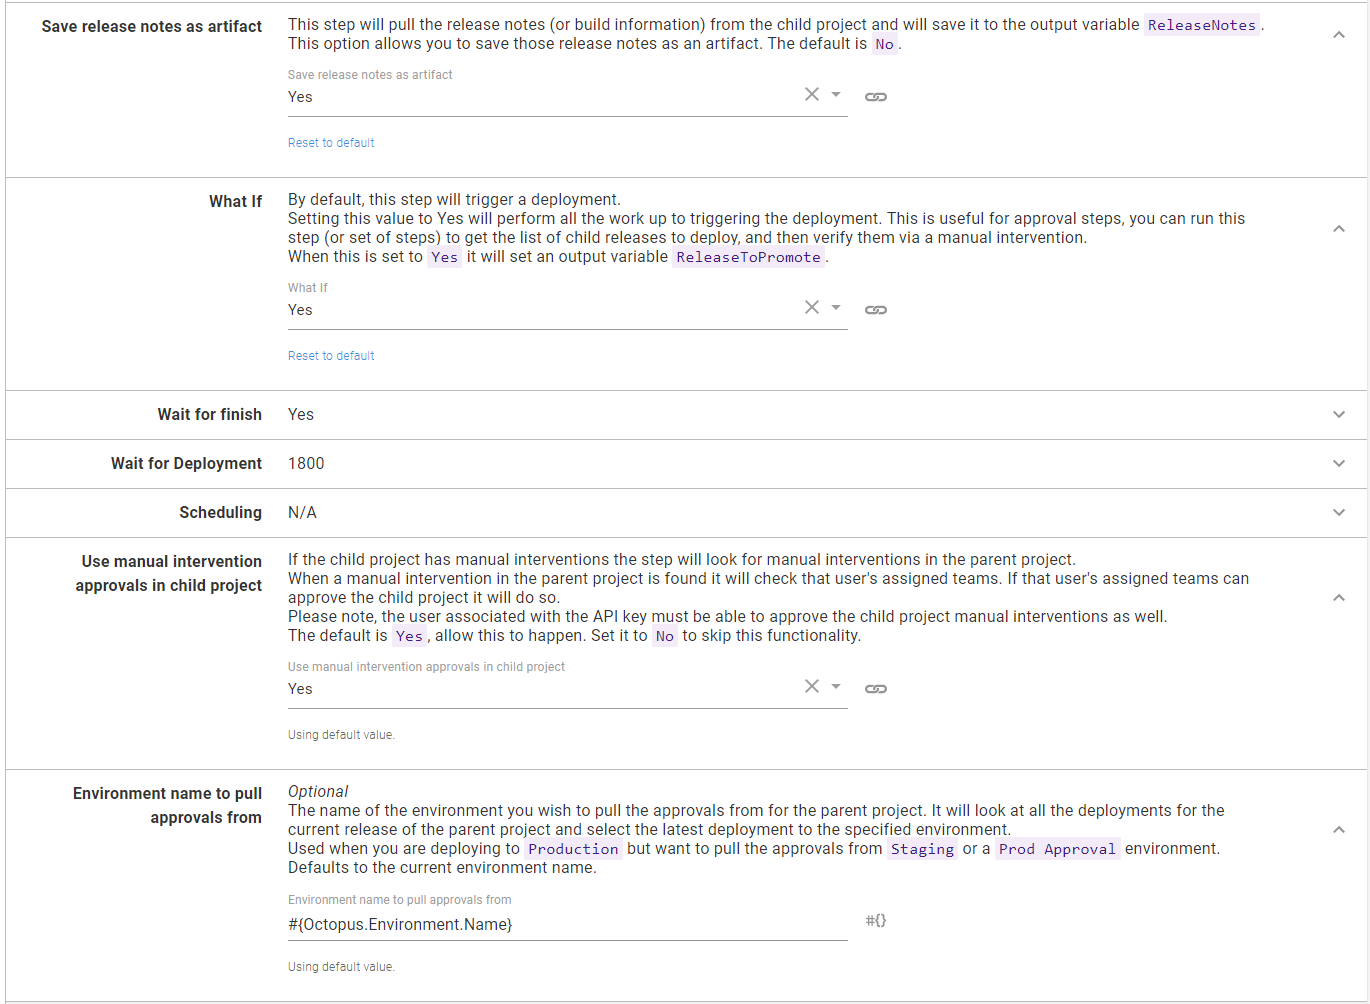
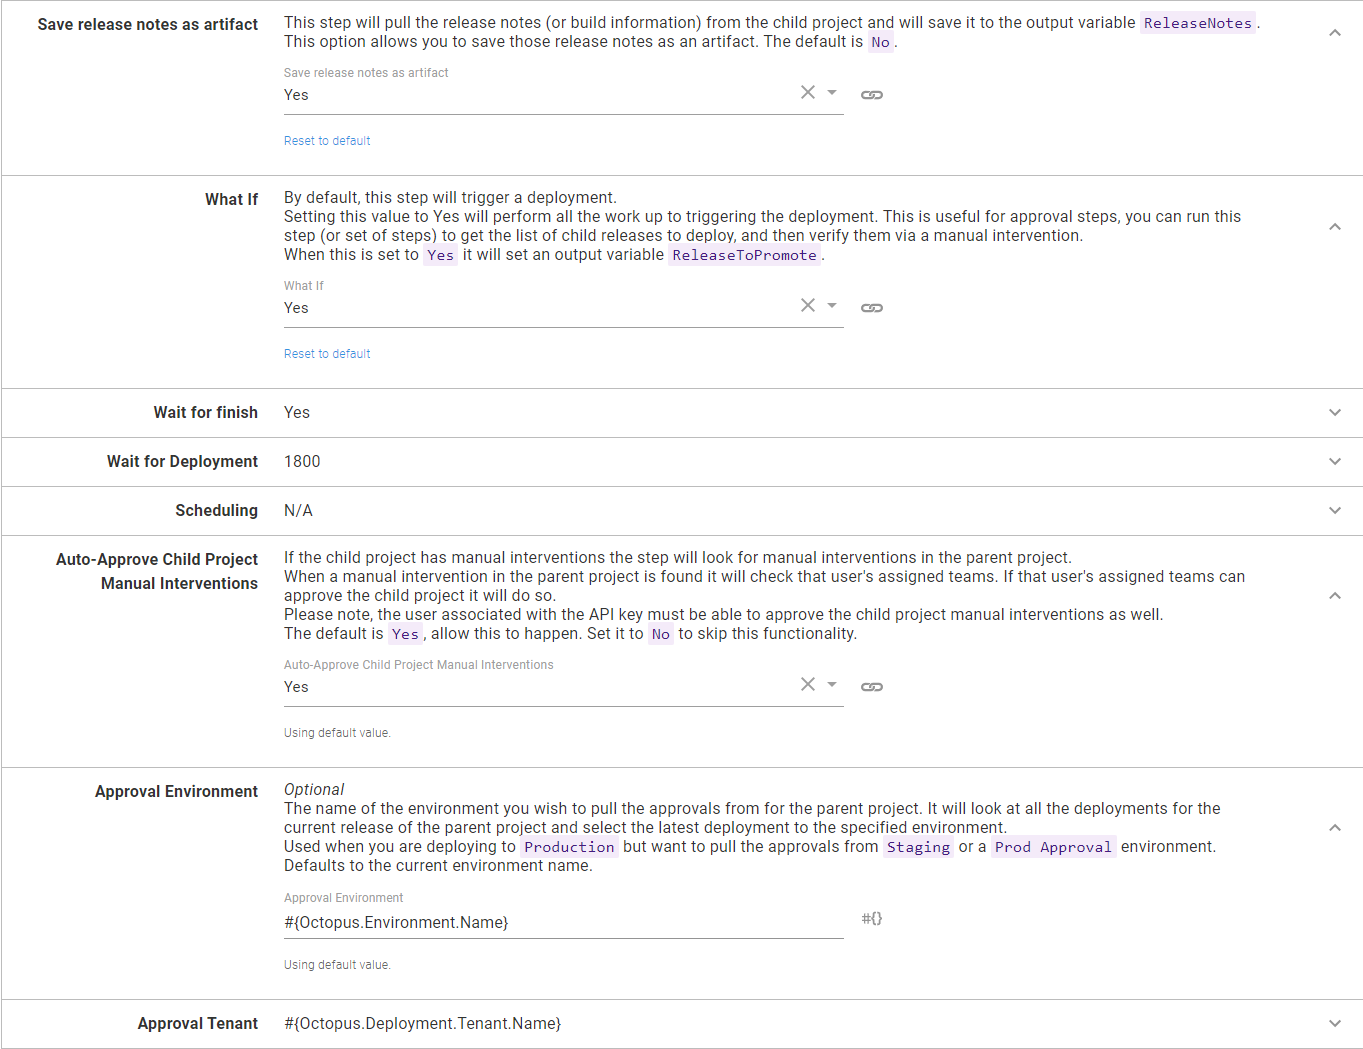
Updating screenshots to reflect updated step template, line edits, and a new scenario

diff --git a/blog/2021-01/real-world-release-management/index.md b/blog/2021-01/real-world-release-management/index.md
@@ -59,7 +59,7 @@ Promoting all the component projects to **Production** is when this pattern star
 - Typically, applications need to be deployed in a specific order.  Deploy the database first, followed by the API, then the scheduling service, and finally the UI.  Any issues during the deployment should stop everything.
 - How and when changes are approved vary from company to company.  It is not uncommon for a release's approval to occur on Tuesday for a Thursday night deployment.
 
-To solve these issues, we need a "parent project" to coordinate all these "child projects." Unlike the child projects, the parent project only needs to deploy to **Staging** and **Proudction**.
+To solve these issues, we need a "parent project" to coordinate all these "child projects." Unlike the child projects, the parent project only needs to deploy to **Staging** and **Production**.
 
 ## Introducing the Deploy Child Octopus Deploy Project Step Template
 
@@ -89,15 +89,15 @@ With those three points of data, the step template will:
 - Look for all the releases matching the supplied pattern for that channel.  
 - Find the release that was last successfully deployed to the previous environments.  Not the most recently created release deployed to the previous environment.  The last successfully deployed release.  For example, you deploy `2021.1.0.15` to **Test**, then realize that release shouldn't have been pushed, and redeploy `2021.1.0.14` to **Test**.  The step template will pick `2021.1.0.14` when it promotes to **Staging** because that was the last release deployed to **Test**.
 
-If no release is found, it will exit the step and move onto the next step in the deployment process.  For example, shortly after promoting `2021.1.0` to **Proudction**, a bug is reported requiring a fix to the Web API and Web UI projects. You'd create the `2021.1.1` release with the `2021.1.1.*` pattern for the child projects.  The Database and Scheduling service projects don't have a matching release because they weren't updated, so they are skipped.  
+If no release is found, it will exit the step and move onto the next step in the deployment process.  For example, shortly after promoting `2021.1.0` to **Production**, a bug is reported requiring a fix to the Web API and Web UI projects. You'd create the `2021.1.1` release with the `2021.1.1.*` pattern for the child projects.  The Database and Scheduling service projects don't have a matching release because they weren't updated, so they are skipped.  
+
+![How step template picks releases](release-management-how-releases-are-picked.png)
 
 :::success
 One of the basic design rules of this step template is customization.  For example, you can configure the step to throw an error if no release is found rather than exiting out of the step and proceeding.
 :::
 
 The step template will also check to see if the selected release has been deployed to the destination environment and skip it if it already has.  You can configure it always to redeploy.
-
-![How step template picks releases](release-management-how-releases-are-picked.png)
 
 ### Easier Approvals
 
@@ -141,7 +141,7 @@ The step template supports that use case by allowing you to send in a future tim
 - `MM/DD/YYYY HH:mm:ss` or `06/25/2021 19:00:00` will deploy at 7 PM on the 25th of June, 2021
 - `DD MMM YYYY HH:mm:ss` or '01 Jan 2021 18:00:00` will deploy at 6 PM on the 1st of January, 2021
 
-You can leverage [prompted variables](https://octopus.com/docs/projects/variables/prompted-variables) to let a user send in a date/time when deploying to **Proudction**.
+You can leverage [prompted variables](https://octopus.com/docs/projects/variables/prompted-variables) to let a user send in a date/time when deploying to **Production**.
 
 ![schedule the release](release-mangement-deploy-scheduled-release.png)
 
@@ -157,18 +157,19 @@ When designing this step template, one of the design decisions was to make it ea
 - **Child Project Channel**: The name of a specific channel.  If you leave it blank, it will pick the default channel on the child project.  
 - **Child Project Release Number**: the release number to deploy.  The default is empty; it will pull the latest release in the source environment.  Can supply a specific number, `2021.1.0.14`, or a pattern, `2021.1.1.*`.  The `.*` is important.  If the period `.` isn't supplied, you could end up with releases from `2021.1.10.x` or `2021.1.15.x`.  
 - **Child Project Release Not Found Error Handle**: what the step should do if the child project doesn't have a matching release number.  By default, it will skip the step and log a warning.  You can change that to stop a deployment with an error or not log a warning.  Recommend leaving it as a warning.
-- **Destination Environment Name**: the name of the environment being deployed to, with the default set to the current environment name.  Recommend leaving as-is unless you are implementing an "Approval Only" environment between **Staging** and **Proudction** (more on that later).
+- **Destination Environment Name**: the name of the environment being deployed to, with the default set to the current environment name.  Recommend leaving as-is unless you are implementing an "Approval Only" environment between **Staging** and **Production** (more on that later).
 - **Source Environment Name**: the name of the source environment.  When left blank, the step template will look at the channel's lifecycle, determine what phase the destination environment is in, then look for the environment(s) before that.  The kicker is Octopus Deploy [lifecycles](https://octopus.com/docs/releases/lifecycles) can have 1 to N environments in a phase.  Enter a specific environment if the release has to come from a specific source environment.  Recommend you leave blank.
 - **Child Project Prompted Variables**:  where you supply prompted variables values for the child project.  
-- **Force Redeployment**: tells the step template to either redeploy a release or skip it if it has already been deployed.  In the event you have a deployment target trigger configured for the release orchestration project, you'd want to change the value to `When deploying to specific machines`.  Otherwise leave it as is.
+- **Force Redeployment**: tells the step template to either redeploy a release or skip it if it has already been deployed.  In the event you have a deployment target trigger configured for the parent project, you'd want to change the value to `When deploying to specific machines`.  Otherwise leave it as is.
 - **Ignore Specific Machine Mismatch**: this only comes into account if you deploy to specific machine(s), which happens with a deployment target trigger.  This step will determine if the child project is associated with any of those machines and exit when it cannot find a match.  Recommend leaving as-is unless there is a particular reason.
 - **Save Release Notes as Artifacts**: the step template will pull all the release notes and build information from the child project and save it in an output variable `ReleaseNotes`.  Output variables are not easily accessible after a deployment.  If you want to persist the gathered release notes in the parent project, then set this to `Yes`.
 - **What If**: tells the step template to do everything except the deployment.  Set to `Yes` if you'd like to approve a release before actually deploying.
 - **Wait for finish**: wait for the deployment to finish before moving on.  Setting the what if parameter set to `Yes` will cause this parameter to be ignored.
 - **Wait for Deployment**: how long the step template waits for the deployment to finish.  Once the timeout is exceeded, the child project's deployment is canceled.  This parameter is the MAX time it will wait.  If a deployment finishes before the limit, it will stop waiting.  Leave at 1800 seconds (30 minutes) unless there is a compelling reason.
 - **Scheduling**: Allows you to schedule a deployment in the future.  Uses [DateTime.TryParse](https://docs.microsoft.com/en-us/dotnet/api/system.datetime.tryparse) to parse the date.  Recommend using this with a prompted variable.
-- **Use Manual Intervention Approvals in Child Project**: will use the parent project's approvals in the child project. 
-- **Environment name to pull approvals from**: the environment's name to pull the parent project's approvals.  The default is the current environment.  Change if you are implementing a "Prod Approval" environment.
+- **Auto-Approve Child Project Manual Interventions**: will use the parent project's manual intervention approvals for the child project's manual intervention. 
+- **Approval Environment**: the environment's name where the parent project's manual interventions are located.  The default is the current environment.  Change if you are implementing a "Prod Approval" environment.
+- **Approval Tenant**: the name of the tenant where the parent project's manual interventions are located.  The default is the current tenant.  Change if you are implementing a "Prod Approval" environment for a single tenant.
 
 ## Using the Deploy Child Octopus Deploy Project Step Template
 
@@ -200,7 +201,7 @@ If you want to leverage the auto-approval functionality, go to each manual inter
 
 #### Create a unique lifecycle
 
-The release orchestration project only needs to deploy to **Staging** and **Proudction**.  We don't want to use the default lifecycle that has all four environments in it.  Create a new lifecycle that only has **Staging** and **Proudction** in it.
+The parent project only needs to deploy to **Staging** and **Production**.  We don't want to use the default lifecycle that has all four environments in it.  Create a new lifecycle that only has **Staging** and **Production** in it.
 
 :::success
 The parent project and child project's lifecycles and channels _do not_ have to match.  The step template will determine if the selected release from the child project can be promoted to the destination environment
@@ -216,7 +217,7 @@ Next up is to create the project.  When you are creating the project, remember t
 
 Once the project is created, head over to the variables screen and add in the API key and the release pattern.
 
-![release orchestration variables](release-orchestration-variables.png)
+![parent project variables](release-orchestration-variables.png)
 
 ### Scenario: Deploying the latest release from Test to Staging
 
@@ -226,12 +227,12 @@ In this scenario, we are going back to the sample application.  If you recall, r
 
 Go to the deployment process in the newly created **Release Orchestration** project and add a `Deploy Child Octopus Deploy Project` step for each child project.
 
-![release orchestration deploy child octopus deploy project steps added](release-management-deploy-release-steps-added.png)
+![parent project deploy child octopus deploy project steps added](release-management-deploy-release-steps-added.png)
 
 Here are the values for each parameter.
 
 - **Octopus API Key**: the API key variable, `#{Project.ChildProjects.ReleaseAPIKey}`.
-- **Octopus Child Space**: leave the default value as-is; this example isn't creating a release orchestration project in another space.
+- **Octopus Child Space**: leave the default value as-is; this example isn't creating a parent project in another space from the child projects.
 - **Child Project Name**: the name of the child project.
 - **Child Project Channel**: leave the default (empty) value as-is; the child project only has one channel.
 - **Child Project Release Number**: The release pattern variable, `#{Project.ChildProjects.ReleasePattern}`
@@ -246,8 +247,9 @@ Here are the values for each parameter.
 - **Wait for finish**: leave the default value as-is; this example will wait for the deployment to finish.
 - **Wait for Deployment**: leave the default value as-is; 30 minutes should be more than enough.
 - **Scheduling**: leave the default value as-is, this example requires a specific order for child projects.
-- **Use Manual Intervention Approvals in Child Project**: leave the default value as-is; this setting is moot right now as the example hasn't added child projects.
-- **Environment name to pull approvals from**: leave the default value as-is; this setting is moot right now as the example hasn't added child projects.
+- **Auto-Approve Child Project Manual Interventions**: leave the default value as-is; this setting is moot right now as we aren't concerned with approvals at the moment.
+- **Approval Environment**: leave the default value as-is; this setting is moot right now as we aren't concerned with approvals at the moment.
+- **Approval Tenant**: leave the default value as-is; this setting is moot right now as we aren't concerned with multi-tenant deployments for this article.
 
 After adding and configuring the steps, it is time to create a release.  I will be making many changes to the parent project in this article; you might see `2021.1.0-RCx` for the release numbers.  
 
@@ -312,11 +314,11 @@ Please create a new release and deploy it to **Staging**.
 
 ![release management second release](release-mangement-second-release.png)
 
-When you deploy to **Staging** you will see this message a lot.  That is expected, especially for this sample project.  The redeployment parameter is set to `No`, and we haven't created any new releases.
+When you deploy to **Staging** you will see this message.  That is expected, especially for this sample project.  The redeployment parameter is set to `No`, and we haven't created any new releases.
 
 ![release management second deployment](release-management-skip-already-installed-release.png)
 
-Promote that release to **Proudction**.  During this deployment, you'll see the manual interventions and auto-approvals in action.  First up, the manual intervention should have the version being deployed along with the release notes.
+Promote that release to **Production**.  During this deployment, you'll see the manual interventions and auto-approvals in action.  First up, the manual intervention should have the version being deployed along with the release notes.
 
 ![manual intervention with rendered release notes](manual-intervention-rendered-release-notes.png)
 
@@ -328,21 +330,21 @@ But once that is fixed, you should see a message similar to this in the child pr
 
 ![manual intervention auto-approval message](release-management-auto-approval-message.png)
 
-And with that, the release to **Proudction** is complete!
+And with that, the release to **Production** is complete!
 
 ![release management deploy to Production](release-orchestration-release-to-production.png)
 
 ### Scenario: Approve today deploy tomorrow
 
-For a large chunk of our users, deployments are done off-hours.  It seems odd to require approvers to be online during deployment if they have nothing to do.  In a perfect world, the deployment should run automatically without user intervention and page the appropriate people if something goes wrong.  We can accomplish that functionality by adding in a **Prod Approval** environment to sit between **Staging** and **Proudction**.  This environment will _only_ be used for release orchestration projects.
+For a large chunk of our users, deployments are done off-hours.  It seems odd to require approvers to be online during deployment if their only task is to approve a deploy.  In a perfect world, the deployment should run automatically off-hours without user intervention and page the appropriate people if something goes wrong.  We can accomplish that functionality by adding in a **Prod Approval** environment to sit between **Staging** and **Production**.  This environment will _only_ be used for parent projects.
 
-Add the **Prod Approval** environment.  You will notice this environment sits between **Staging** and **Proudction** on this page.  I clicked the `...` to reorder the environments on this page.
+First, add the **Prod Approval** environment.  You will notice this environment sits between **Staging** and **Production** on this page.  I clicked the `...` to reorder the environments on this page.
 
 ![add prod approval](release-management-add-prod-approval.png)
 
-Now that the new environment has been added, update the lifecycle used by this release orchestration project.
+Now that the new environment has been added, update the lifecycle used by this parent project.
 
-![prod approval in the release orchestration lifecycle](release-management-updated-lifecycles.png)
+![prod approval in the parent project lifecycle](release-management-updated-lifecycles.png)
 
 :::success
 Keep an eye on the **Default Lifecycle.**  By default, that lifecycle doesn't have explicit phases defined.  Instead, it auto-generates the phases using the entire environment list.  To remove **Prod Approval** from the **Default Lifecycle**, you will need to add explicit phases.
@@ -350,19 +352,19 @@ Keep an eye on the **Default Lifecycle.**  By default, that lifecycle doesn't ha
 
 Next, update the approval steps to only run in the **Prod Approval** environment.  At the same time, configure the non-what-if steps to skip the **Prod Approval** environment.
 
-![prod approval added to the release orchestration project](release-management-deployment-process-with-prod-approval.png)
+![prod approval added to the parent project project](release-management-deployment-process-with-prod-approval.png)
 
 Next, head over to the variables screen and add in two new variables:
 
 - **Project.ChildProject.Approval.Environment.Name**: stores the **Prod Approval** environment name.
-- **Project.ChildProject.Deployment.Environment.Name**: stores the name of the environment the child project should be deployed to.  For all environments except **Prod Approval**, the name will match the current environment.  When running this on the **Prod Approval** environment, the deployment environment name is **Proudction**.
+- **Project.ChildProject.Deployment.Environment.Name**: stores the name of the environment the child project should be deployed to.  For all environments except **Prod Approval**, the name will match the current environment.  When running this on the **Prod Approval** environment, the deployment environment name is **Production**.
 
 ![prod approval new variables](release-management-new-variables.png)
 
 Go into each step implementing the `Deploy Child Octopus Deploy Project` and update the following parameters:
 
 - **Destination Environment Name**: update to `#{Project.ChildProject.Deployment.Environment.Name}`
-- **Environment name to pull approvals from**: update to `#{Project.ChildProject.Approval.Environment.Name}`.
+- **Approval Environment**: update to `#{Project.ChildProject.Approval.Environment.Name}`.
 
 ![using the new variables in the new steps](release-mangement-using-the-new-variables.png)
 
@@ -378,7 +380,7 @@ Let's assume everything successfully passes QA, and it is time to promote those 
 
 ![update release pattern](release-management-update-release-pattern.png)
 
-Please create a new release for the release orchestration project and deploy it to **Staging**.  
+Please create a new release for the **Release Orchestration** project and deploy it to **Staging**.  
 
 ![dashboard after deployment to Staging](release-management-prod-approval-post-staging.png)
 
@@ -386,13 +388,45 @@ Promote that release to **Prod Approval** and go through each of the approval st
 
 ![releases already deployed messages](approval-message-with-release-already-in-environment.png)
 
-Now it is time to schedule the release to deploy to **Proudction**.  Using the built-in tool, we can schedule it to run at 7 PM tonight.
+Now it is time to schedule the release to deploy to **Production**.  Using the built-in tool, we can schedule it to run at 7 PM tonight.
 
 ![schedule release to deploy to Production](schedule-release-to-production.png)
 
 When the release is deployed, it will pull the approvals from the **Prod Approval** environment.
 
 ![the approval came from an earlier environment](release-management-approval-from-prod-approval.png)
+
+### Scenario: Redeploy on demand
+
+By default, the step template will skip any release already deployed to the target environment.  For a significant number of use cases that is the preferred behavior.  However, there are several use cases where a redeployment is desired.
+
+- Environment refresh: the **Staging** environment is refreshed from **Production**.  It makes sense to redeploy the latest code to **Staging** to get the latest bits out there for testing.
+- Server reset: one of the servers is acting funny, perhaps the easiest solution is to redeploy to make sure all the code and configuration values are up to date.
+- New server: a new server is added to the web farm, redeploy everything to make sure the web farm has the same code and configuration across all nodes.
+
+To accomplish this we will use [Octopus Deploy's prompted variable functionality](https://octopus.com/docs/projects/variables/prompted-variables).  First, we will add a new variable to the project.
+
+- Name: **Project.ChildProject.ForceRedeployment**
+- Default Value: No
+- Label: Force Redeployment
+- Control Type: Drop Down List
+- Options: Yes and No
+
+![variable to allow for forcing redeployment](force-redeployment-prompted-variables.png)
+
+Next, update the **Force Redeployment** parameter to use this new variable.  
+
+![updating the step to force redeployment](force-redeployment-update-step.png)
+
+Now when you do a deployment you will be prompted to force a redeployment.  The default is `No`, if a user leaves everything as is the default functionality will be used.
+
+![seeing the force redeployment prompted variable](force-redeployment-when-deploying-release.png)
+
+And when it is set to `Yes` you will see all the child projects redeploy.
+
+![seeing the redeploy in action](release-management-redeploy-inaction.png)
+
+At the moment the prompted variable makes redeployment an all or nothing.  It might make sense to have a unique variable per component project, or group them together in a logical fashion.  
 
 ## Alternatives
 If you made it this far, you might be thinking, wow, this is all very complex.  Is this needed?  I think it is. Let's reexamine why a person wants to have a project per component.
@@ -402,7 +436,7 @@ If you made it this far, you might be thinking, wow, this is all very complex.  
 - Minimize the number of decisions a person has to make.
 - Single responsibility principle, each project deploys one thing to the best of its ability.
 
-At this time, an Octopus Project per component is the best solution to these requirements.
+At this time, an Octopus Project per component is the best solution to meet these requirements.
 
 There are alternatives to a project per component.  This section will walk through those alternatives to better understand why an Octopus Project per component solves the problem in the most efficient manner.
 
@@ -410,7 +444,7 @@ There are alternatives to a project per component.  This section will walk throu
 
 It is possible to have a single project and use [Octopus Deploy channels](https://octopus.com/docs/releases/channels) feature.  Steps can be scoped to run on specific channels.  The channel is selected when creating a release.  Typically releases are created by a build server and automatically deploy to a **Development** environment.
 
-The first problem is all the possible component combinations.  For four components, there are 14 channels.  Imagine adding a fifth component!
+The first problem is all the possible component combinations.  For four components, there would be 15 channels.
 
 - WebUI
 - WebAPI
@@ -425,7 +459,10 @@ The first problem is all the possible component combinations.  For four componen
 - WebUI WebAPI Database
 - WebUI WebAPI Service
 - WebAPI Service Database
+- WebUI Service Database
 - WebUI WebAPI Database Service
+
+Adding a fifth component would mean 36 channels.  A sixth component would mean 63 channels!  As you can see, channels per component combination doesn't scale.
 
 The second problem is when a release is created, something or someone has to decide which channel to use—making the wrong decision could result in the wrong component being deployed.  That opens the door to human error.
 
